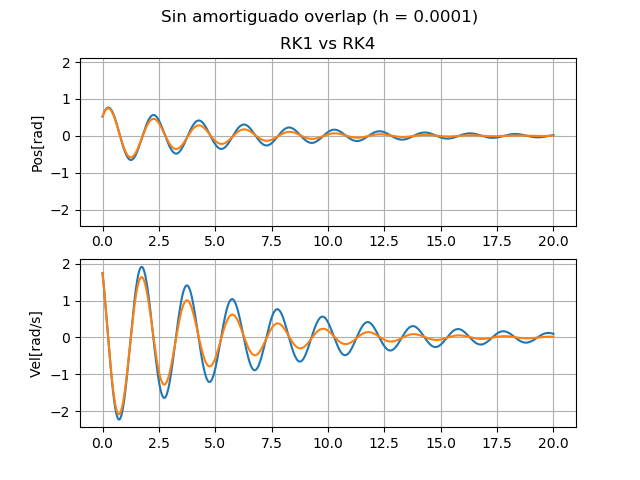
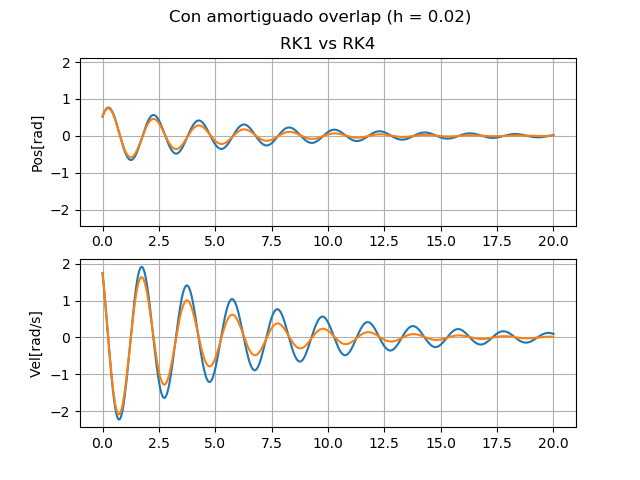
Arreglo los dos casos con amortiguado

Changed region(s): [[0.25, 0.0, 0.75, 0.0625]]

diff --git a/tp2/main.py b/tp2/main.py
@@ -5,7 +5,7 @@ import numpy as np
 import math
 
 y= np.float(math.radians(30))
-u= np.float(math.radians(0)) # cambiar para amortiguado
+u= np.float(math.radians(100)) # cambiar para amortiguado
 
 
 paso = 0.02
@@ -13,6 +13,6 @@ rango_maximo = 20
 valores_euler = realizar_metodo(metodo_euler,f1, 0, rango_maximo, y, u, paso)
 valores_rk4 = realizar_metodo(runge_kutta4,f1, 0, rango_maximo, y, u, paso)
 
-#common.crear_grafico(valores_euler, valores_rk4)
-#common.crear_grafico_overlap(valores_euler, valores_rk4)
-common.crear_tablas(valores_euler, valores_rk4)
+common.crear_grafico(valores_euler, valores_rk4)
+common.crear_grafico_overlap(valores_euler, valores_rk4)
+#common.crear_tablas(valores_euler, valores_rk4)

diff --git a/tp2/common.py b/tp2/common.py
@@ -30,7 +30,7 @@ def crear_grafico_overlap(resultados_RK1, resultados_RK4):
 	rk4_y, rk4_u, rk4_e, rk4_t = separar_en_listas(resultados_RK4)
 	
 	fig, ((ax1, ax2)) = plt.subplots(2, 1, sharey=True)
-	fig.suptitle("Sin amortiguado overlap (h = 0.0001)")
+	fig.suptitle("Con amortiguado overlap (h = 0.02)")
 
 	
 	ax1.plot(rk1_t, rk1_y, 'tab:blue')
@@ -74,7 +74,7 @@ def crear_grafico(resultados_RK1, resultados_RK4):
 	rk4_y, rk4_u, rk4_e, rk4_t = separar_en_listas(resultados_RK4)
 	
 	fig, ((ax1, ax2), (ax3, ax4), (ax5,ax6)) = plt.subplots(3, 2, sharey=True)
-	fig.suptitle("Sin amortiguado (h = 0.02)")
+	fig.suptitle("Con amortiguado (h = 0.02)")
 
 	
 	# RK1: Pos vs t
